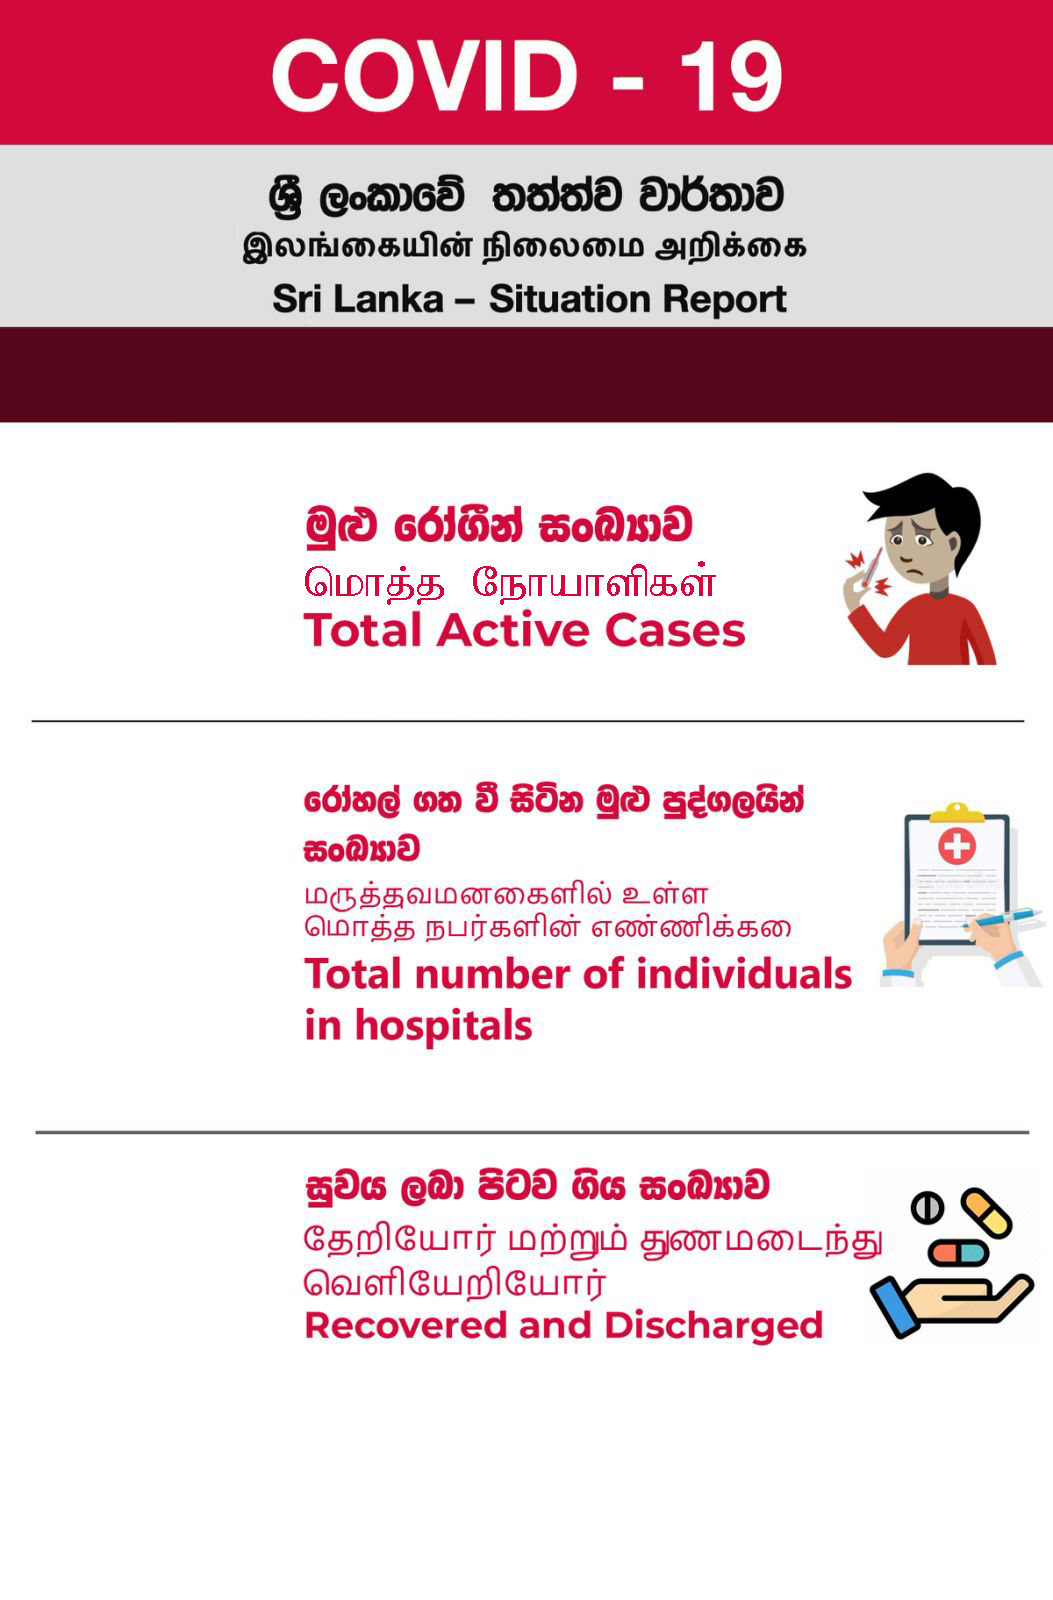
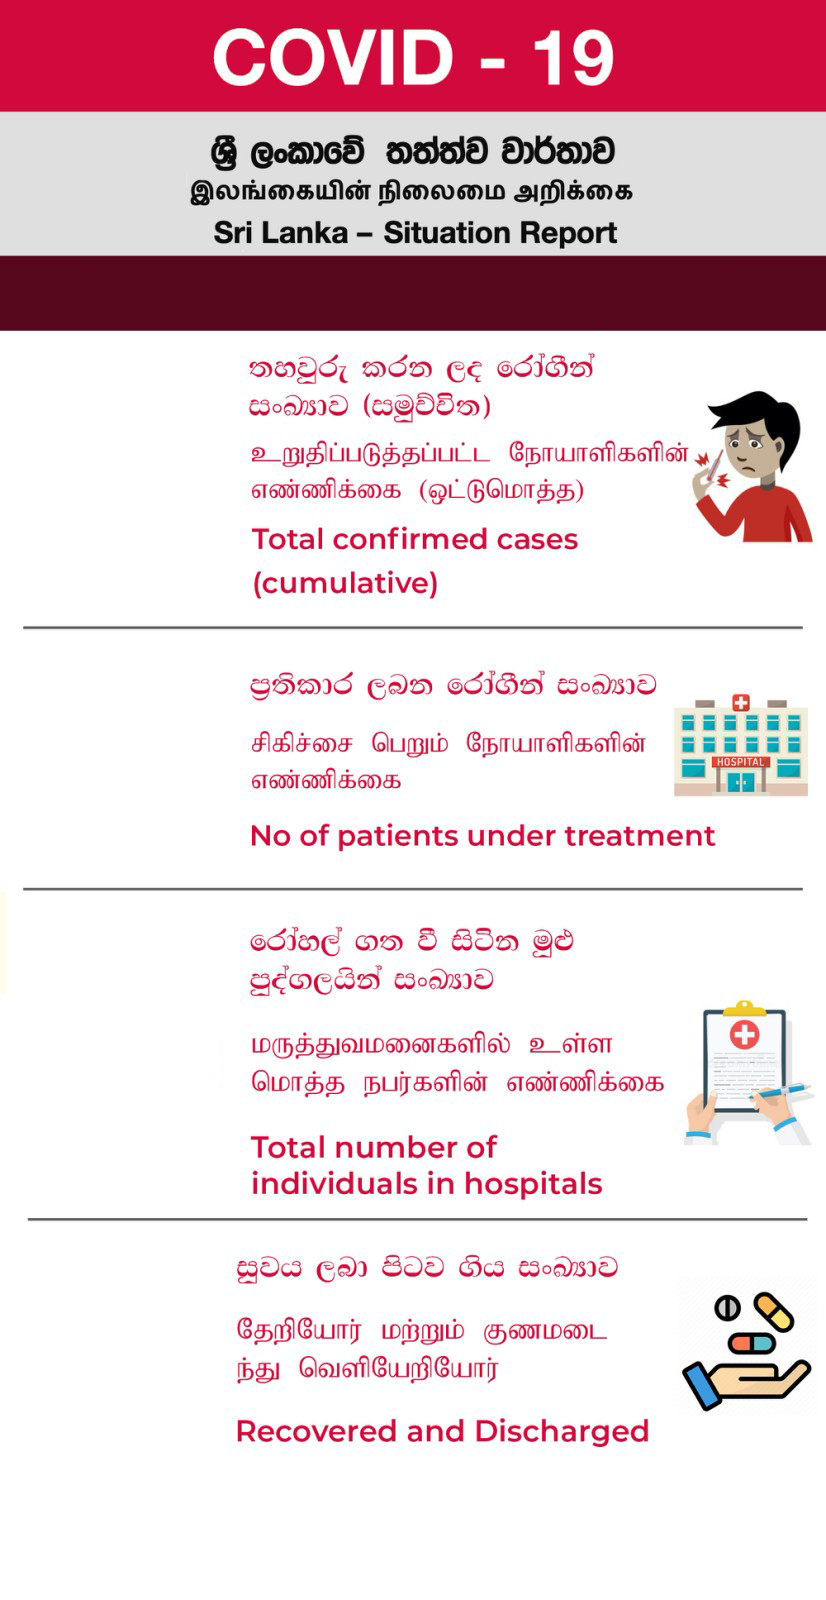
new status image added

diff --git a/Application/Infastructure/Notification/Poster/ImageNotification.cs b/Application/Infastructure/Notification/Poster/ImageNotification.cs
@@ -30,21 +30,26 @@ namespace Application.Infastructure.Notification.Poster
                
                 String dateAndTime = hpbStatistic.LastUpdate.ToString("dd.MM.yyyy") + " - " + hpbStatistic.LastUpdate.ToString("hh.mm tt");
 
-                image.Mutate(ctx => ctx.DrawText(dateAndTime, new Font(fontFamily, 60, FontStyle.Bold), Color.White, new PointF(188, 350)));
+                image.Mutate(ctx => ctx.DrawText(dateAndTime, new Font(fontFamily, 60, FontStyle.Bold), Color.White, new PointF(50, 275)));
+
+                int totalActive = hpbStatistic.LocalTotalCases - hpbStatistic.LocalRecoverd;
 
                 image.Mutate(ctx => ctx.DrawText(hpbStatistic.LocalTotalCases.ToString(), 
-                                new Font(fontFamily, 80, FontStyle.Bold), Color.FromRgb(210, 9, 61), new PointF(90, 530)));
+                                new Font(fontFamily, 80, FontStyle.Bold), Color.FromRgb(210, 9, 61), new PointF(40, 440)));
                 
                 image.Mutate(ctx => ctx.DrawText("New Cases : "+ hpbStatistic.LocalNewCases.ToString(),
-                                new Font(fontFamily, 25, FontStyle.Bold), Color.FromRgb(210, 9, 61), new PointF(90, 685)));
+                                new Font(fontFamily, 25, FontStyle.Bold), Color.FromRgb(210, 9, 61), new PointF(30, 600)));
+
+                image.Mutate(ctx => ctx.DrawText(totalActive.ToString(),
+                                new Font(fontFamily, 80, FontStyle.Bold), Color.FromRgb(210, 9, 61), new PointF(40, 720)));
 
                 image.Mutate(ctx => ctx.DrawText(hpbStatistic.LocalTotalNumberOfIndividualsInHospitals.ToString(),
-                                new Font(fontFamily, 80, FontStyle.Bold), Color.FromRgb(210, 9, 61), new PointF(90, 870)));
+                                new Font(fontFamily, 80, FontStyle.Bold), Color.FromRgb(210, 9, 61), new PointF(40, 1025)));
 
                 image.Mutate(ctx => ctx.DrawText(hpbStatistic.LocalRecoverd.ToString(),
-                                new Font(fontFamily, 90, FontStyle.Bold), Color.ForestGreen, new PointF(110, 1232)));
+                                new Font(fontFamily, 90, FontStyle.Bold), Color.ForestGreen, new PointF(70, 1300)));
 
-                String imageName = "status_update_" + hpbStatistic.Id + ".png";
+                String imageName = "status_update_" + hpbStatistic.Id + ".jpg";
 
                 image.Save(imageName);
                 return imageName;

diff --git a/Application/Infastructure/Notification/Twitter/Twitter.cs b/Application/Infastructure/Notification/Twitter/Twitter.cs
@@ -27,7 +27,7 @@ namespace Application.Infastructure.Notification.Twitter
             
             if(type == TwitterNotificationTypes.STATUS_UPDATE)
             {
-                byte[] status_update_post = File.ReadAllBytes("status_update_" + hpbStatistic.Id + ".png");
+                byte[] status_update_post = File.ReadAllBytes("status_update_" + hpbStatistic.Id + ".jpg");
 
                 var publishedTweet = Auth.ExecuteOperationWithCredentials(userCredentials, () =>
                 {
